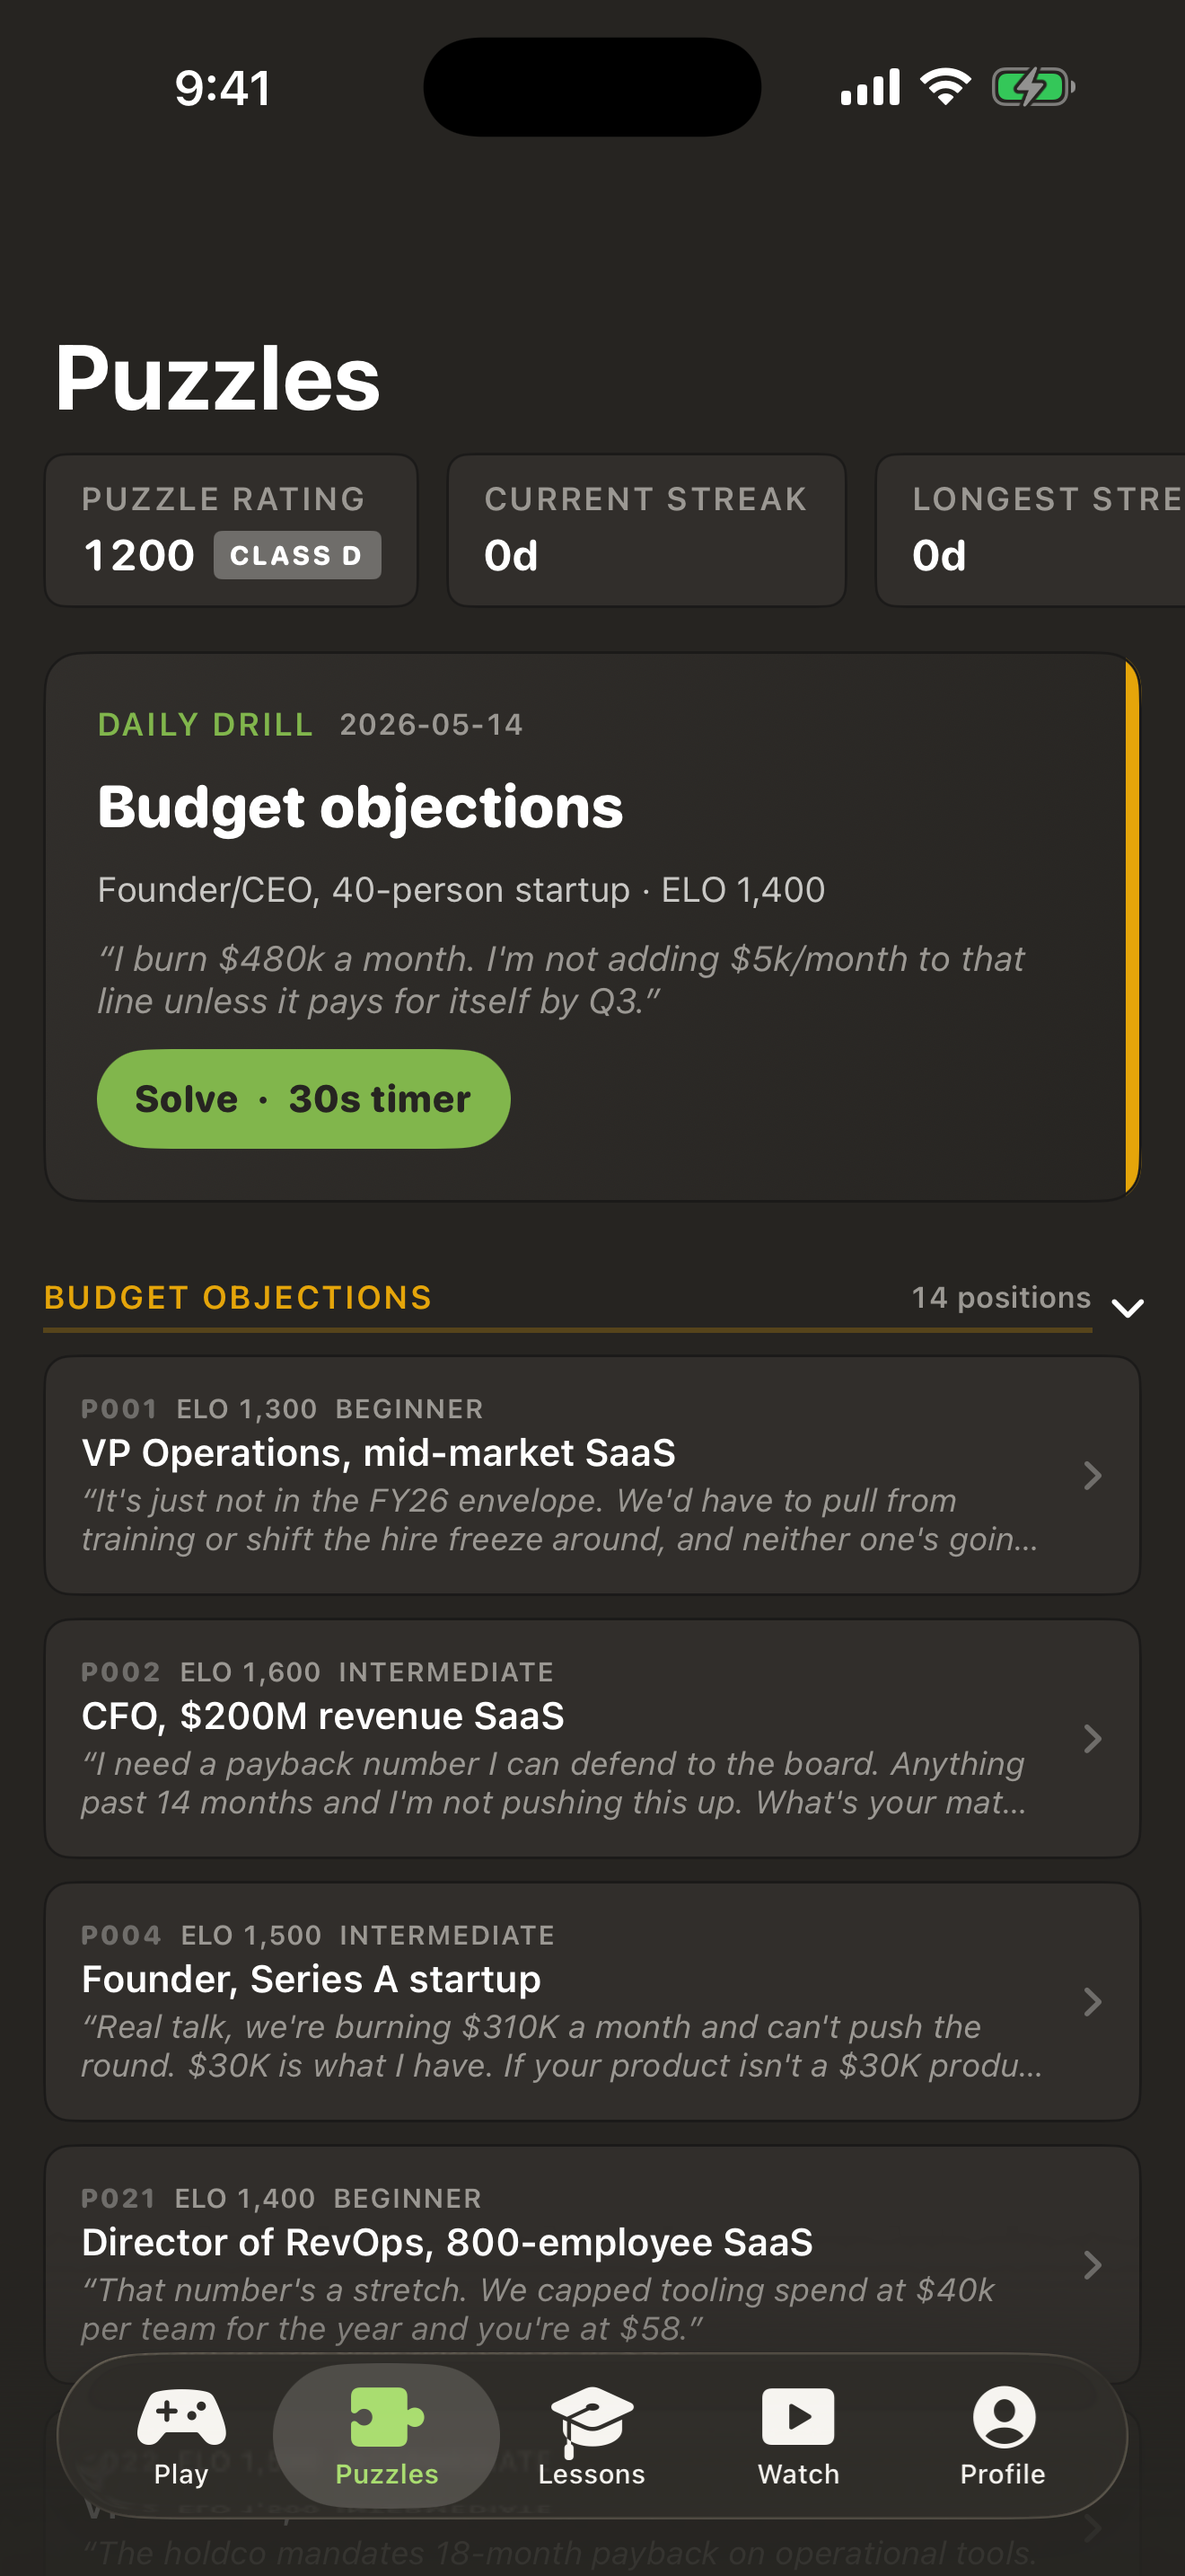
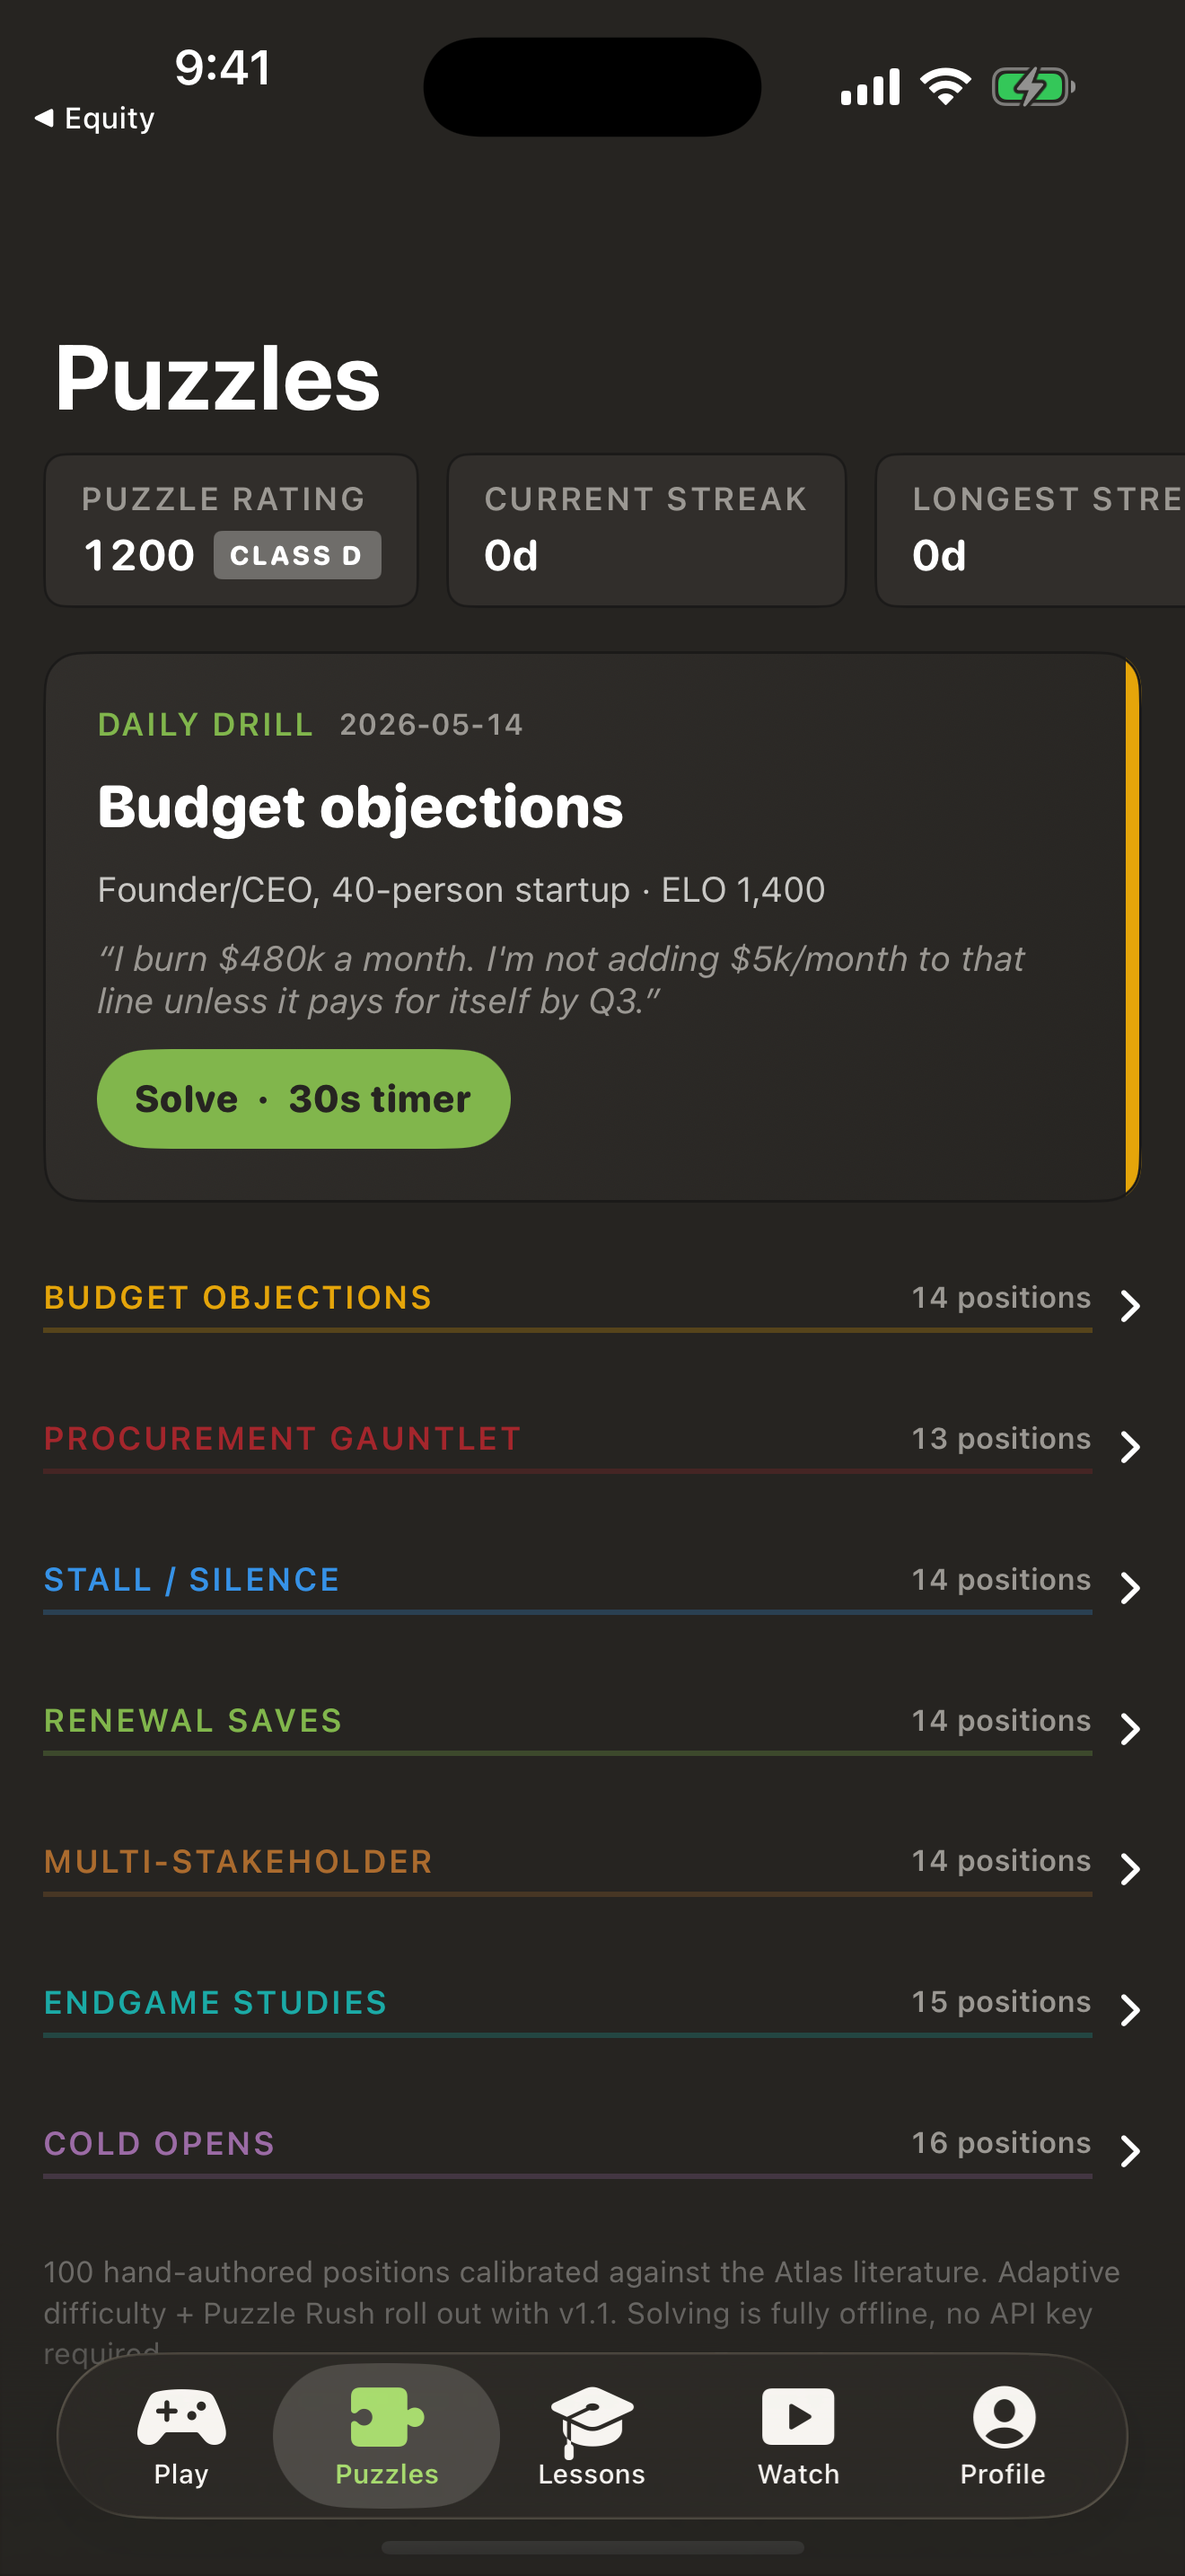
chore: ship-ready — iPhone-only, branding, fastlane via API key, screenshots
- project.yml: TARGETED_DEVICE_FAMILY 1,2 → 1 (iPhone-only for v1.0; UI is
  portrait-iPhone, iPad layouts will land in v1.1). CURRENT_PROJECT_VERSION
  bumped to 3 (build 1 was com.melmarion.CloserGym era, build 2 failed
  validation on missing iPad orientations; build 3 keeps the UISupported
  InterfaceOrientations~ipad block per Apple's iPad-multitasking requirement
  even on iPhone-only bundles).
- Fastfile: ASC API key auth via env vars (no interactive 2FA), produce
  removed (bundle ID + app record registered out-of-band), sigh with
  api_key, upload_to_app_store with api_key.
- ProfileTab + ShareCard: "closer.gym v0.1" → "Frame & Fork · v1.0" and
  share preview / ShareCard tagline updated.
- Build 3 uploaded to TestFlight, attached to v1.0; encryption flag picked
  up from Info.plist (ITSAppUsesNonExemptEncryption=false).
- 4 App Store screenshots uploaded: onboarding manifesto, collapsed
  Puzzles taxonomy (post-DisclosureGroup refactor), puzzle solver mid-
  decision, Voss master game with annotated transcript.

diff --git a/FrameFork/Views/Tabs/ProfileTab.swift b/FrameFork/Views/Tabs/ProfileTab.swift
@@ -41,7 +41,7 @@ struct ProfileTab: View {
         let solved = storage.puzzleState.solves.filter(\.correct).count
 
         if let url = ShareCardRenderer.render(rating: rating, streak: streak, longestStreak: longest, solveCount: solved) {
-            ShareLink(item: url, preview: SharePreview("My closer.gym rating: \(Int(rating))")) {
+            ShareLink(item: url, preview: SharePreview("My Frame & Fork rating: \(Int(rating))")) {
                 Image(systemName: "square.and.arrow.up").foregroundStyle(Color.textSecondary)
             }
         }
@@ -114,7 +114,7 @@ struct ProfileTab: View {
     private var foundationFooter: some View {
         VStack(alignment: .leading, spacing: 6) {
             Text("Closer Foundation").microLabel()
-            Text("closer.gym v0.1")
+            Text("Frame & Fork · v1.0")
                 .font(.system(size: 14, weight: .semibold))
                 .foregroundStyle(Color.textSecondary)
             Text("Cluely is the cheat code. We built the gym.")

diff --git a/FrameFork/Views/Profile/ShareCard.swift b/FrameFork/Views/Profile/ShareCard.swift
@@ -85,7 +85,7 @@ struct ShareCard: View {
                         .font(.system(size: 28, weight: .semibold))
                         .italic()
                         .foregroundStyle(Color.textSecondary)
-                    Text("closer.gym")
+                    Text("Frame & Fork")
                         .font(.system(size: 24, weight: .heavy, design: .rounded))
                         .kerning(2)
                         .foregroundStyle(Color.brandGreen)
